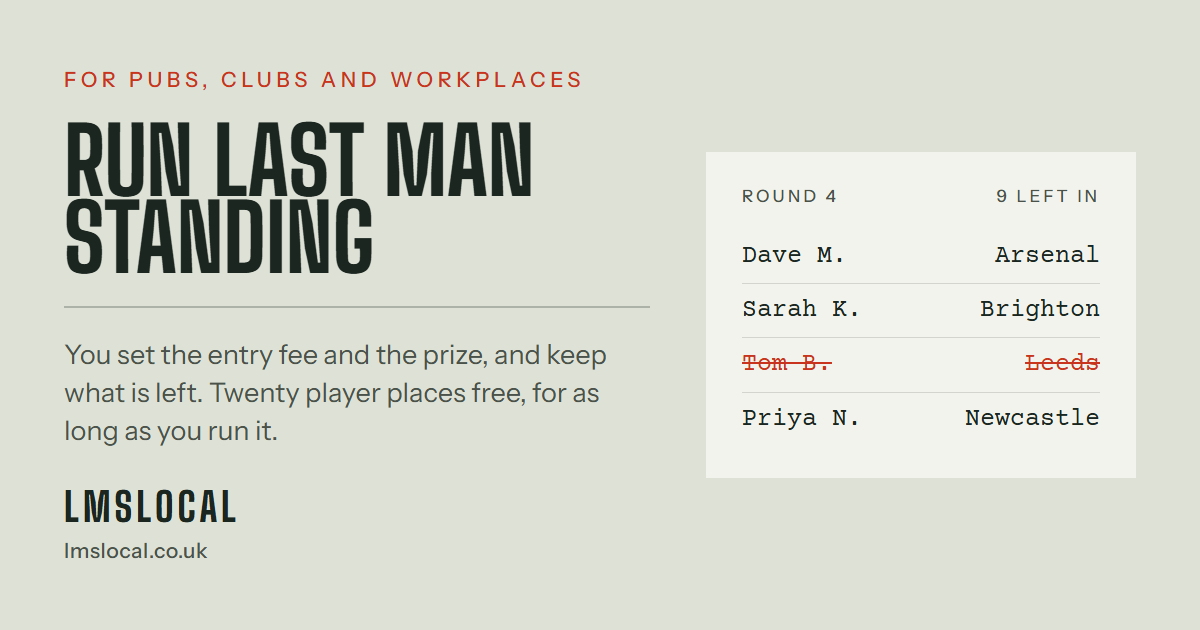
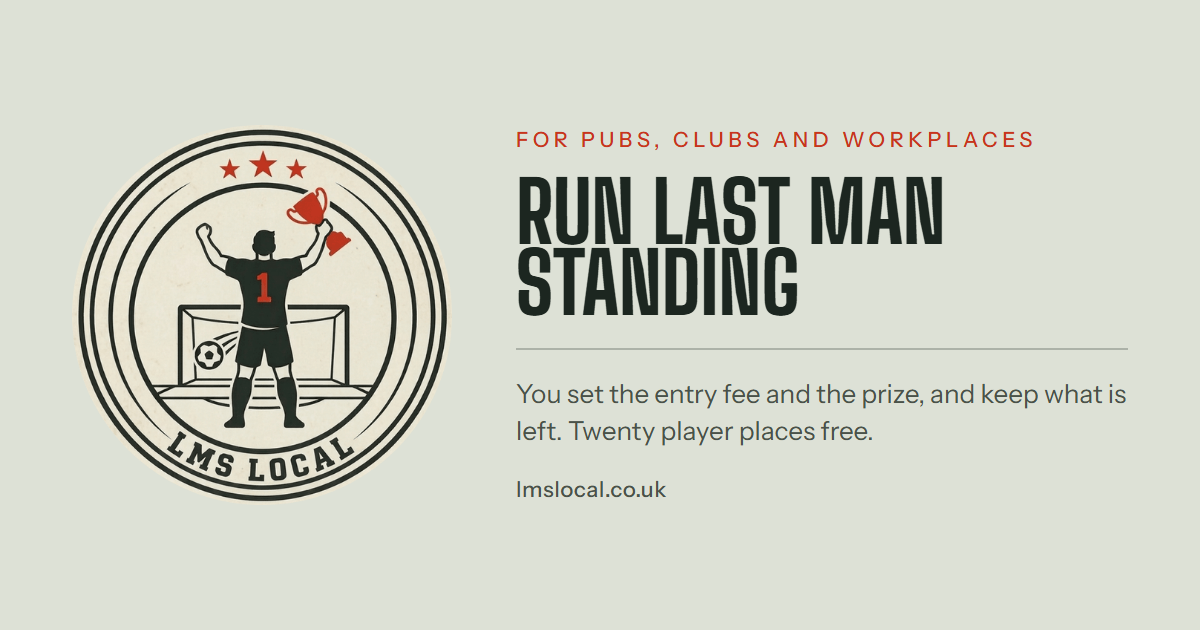
Build the link previews around the badge
The survival sheet explained the game better, but on a preview the size of a
thumbnail the badge is the only element anyone already recognises as us.

Both tiles use the app's own public/logo.png, served over a second root in
make-png.js rather than copied into the folder: assets/LMS-Local-Logo.png is the
same mark with a cream square baked in, which would sit as a pale block on the
stock ground, and two copies of a logo drift as soon as one is touched.

og-default's sentence loses "for as long as you run it" — at this measure it
wrapped to a third line carrying only "it."

diff --git a/lmslocal-marketing/social/og-join.html b/lmslocal-marketing/social/og-join.html
@@ -33,11 +33,15 @@
       file exists is that the site-wide preview was selling the platform to
       organisers on a link sent to players.
 
-      The survival sheet carries the same names, teams and round as
-      leaflet/a5-landlord.html and the story tile. It is illustrative artwork,
-      not a claim — the honesty rules bite on figures and testimonials, and there
-      are none here. Someone who meets the game twice should not have to learn it
-      twice, so if these names change they change everywhere.
+      The badge is the app's own /logo.png, served over /app-public/ by
+      make-png.js rather than copied in here — assets/LMS-Local-Logo.png is the
+      same mark with a cream square baked in, which would show as a pale block
+      against the stock ground.
+
+      An earlier version used the survival sheet instead. It explained the game
+      better and looked like nothing else we ship; the badge is what people
+      already recognise as us, which matters more on a preview the size of a
+      thumbnail.
     -->
 
     <p class="screen-only max-w-[1200px] font-body text-sm text-white">
@@ -47,67 +51,36 @@
     </p>
 
     <div class="tile bg-stock font-body text-ink">
-      <div class="flex h-full gap-[56px] p-[64px]">
-        <!-- Left: what the game is ----------------------------------------- -->
+      <div class="flex h-full items-center gap-[64px] p-[72px]">
+        <!-- The badge. Fixed size and shrink-0: at thumbnail size it is the only
+             element anyone will actually recognise, so it must not be what gives
+             way when the copy grows. -->
+        <img
+          src="/app-public/logo.png"
+          alt="LMS Local"
+          class="h-[380px] w-[380px] shrink-0"
+        />
+
         <div class="flex min-w-0 flex-1 flex-col">
           <p class="text-[21px] font-medium uppercase tracking-[0.22em] text-overprint">
             You have been invited
           </p>
 
-          <h1 class="mt-[26px] font-display text-[104px] font-extrabold uppercase leading-[0.84]">
+          <h1 class="mt-[22px] font-display text-[92px] font-extrabold uppercase leading-[0.84]">
             Last man<br />standing
           </h1>
 
           <!-- 2px rather than a hairline: at 1200px wide a 1px rule survives the
                render but not the compression every chat app puts on a preview. -->
-          <div class="mt-[34px] h-[2px] w-full shrink-0 bg-ink/25"></div>
+          <div class="mt-[30px] h-[2px] w-full shrink-0 bg-ink/25"></div>
 
-          <p class="mt-[30px] text-[27px] leading-[1.4] text-ink-fade">
+          <p class="mt-[26px] text-[27px] leading-[1.4] text-ink-fade">
             Pick one team each round. Win and you go through. Draw or lose and you are out.
           </p>
 
-          <div class="mt-auto shrink-0 pt-[28px]">
-            <p class="font-display text-[40px] font-extrabold uppercase leading-none tracking-[0.1em]">
-              lmslocal
-            </p>
-            <p class="mt-[8px] text-[21px] font-medium tracking-wide text-ink-fade">
-              lmslocal.co.uk
-            </p>
-          </div>
-        </div>
-
-        <!-- Right: the sheet it replaces ----------------------------------- -->
-        <div class="flex w-[430px] shrink-0 flex-col justify-center">
-          <div class="bg-stock-lit px-[36px] py-[32px]">
-            <div class="flex items-baseline justify-between">
-              <p class="text-[17px] font-medium uppercase tracking-[0.18em] text-ink-fade">
-                Round 4
-              </p>
-              <p class="text-[17px] font-medium uppercase tracking-[0.18em] text-ink-fade">
-                9 left in
-              </p>
-            </div>
-            <!-- font-data because these read as filled in by hand — the one
-                 thing on the tile a person would have written. -->
-            <dl class="mt-[20px] font-data text-[25px] leading-tight">
-              <div class="flex justify-between border-b border-ink/15 py-[11px]">
-                <dt>Dave M.</dt>
-                <dd>Arsenal</dd>
-              </div>
-              <div class="flex justify-between border-b border-ink/15 py-[11px]">
-                <dt>Sarah K.</dt>
-                <dd>Brighton</dd>
-              </div>
-              <div class="flex justify-between border-b border-ink/15 py-[11px] text-overprint">
-                <dt class="line-through">Tom B.</dt>
-                <dd class="line-through">Leeds</dd>
-              </div>
-              <div class="flex justify-between py-[11px]">
-                <dt>Priya N.</dt>
-                <dd>Newcastle</dd>
-              </div>
-            </dl>
-          </div>
+          <p class="mt-[26px] text-[22px] font-medium tracking-wide text-ink-fade">
+            lmslocal.co.uk
+          </p>
         </div>
       </div>
     </div>

diff --git a/lmslocal-marketing/social/og-default.html b/lmslocal-marketing/social/og-default.html
@@ -32,9 +32,14 @@
       no revenue example, no testimonial. See the honesty rules in
       docs/design-system.md.
 
-      The player-facing variant is og-join.html. They share a skeleton and the
-      survival sheet on purpose — two previews from one site should look like
-      one family — and differ only in who they are talking to.
+      The badge is the app's own /logo.png, served over /app-public/ by
+      make-png.js rather than copied in here — assets/LMS-Local-Logo.png is the
+      same mark with a cream square baked in, which would show as a pale block
+      against the stock ground.
+
+      The player-facing variant is og-join.html. They share a skeleton on
+      purpose — two previews from one site should look like one family — and
+      differ only in who they are talking to.
     -->
 
     <p class="screen-only max-w-[1200px] font-body text-sm text-white">
@@ -44,14 +49,22 @@
     </p>
 
     <div class="tile bg-stock font-body text-ink">
-      <div class="flex h-full gap-[56px] p-[64px]">
-        <!-- Left: the offer ------------------------------------------------ -->
+      <div class="flex h-full items-center gap-[64px] p-[72px]">
+        <!-- The badge. Fixed size and shrink-0: at thumbnail size it is the only
+             element anyone will actually recognise, so it must not be what gives
+             way when the copy grows. -->
+        <img
+          src="/app-public/logo.png"
+          alt="LMS Local"
+          class="h-[380px] w-[380px] shrink-0"
+        />
+
         <div class="flex min-w-0 flex-1 flex-col">
           <p class="text-[21px] font-medium uppercase tracking-[0.22em] text-overprint">
             For pubs, clubs and workplaces
           </p>
 
-          <h1 class="mt-[26px] font-display text-[92px] font-extrabold uppercase leading-[0.84]">
+          <h1 class="mt-[22px] font-display text-[84px] font-extrabold uppercase leading-[0.84]">
             Run last man<br />standing
           </h1>
 
@@ -59,53 +72,15 @@
                render but not the compression every chat app puts on a preview. -->
           <div class="mt-[30px] h-[2px] w-full shrink-0 bg-ink/25"></div>
 
-          <p class="mt-[28px] text-[27px] leading-[1.4] text-ink-fade">
-            You set the entry fee and the prize, and keep what is left. Twenty player places free,
-            for as long as you run it.
+          <p class="mt-[26px] text-[26px] leading-[1.4] text-ink-fade">
+            <!-- Shorter than the root metadata's version of this sentence, which
+                 wraps to a third line here and leaves "it." on its own. -->
+            You set the entry fee and the prize, and keep what is left. Twenty player places free.
           </p>
 
-          <div class="mt-auto shrink-0 pt-[28px]">
-            <p class="font-display text-[40px] font-extrabold uppercase leading-none tracking-[0.1em]">
-              lmslocal
-            </p>
-            <p class="mt-[8px] text-[21px] font-medium tracking-wide text-ink-fade">
-              lmslocal.co.uk
-            </p>
-          </div>
-        </div>
-
-        <!-- Right: the sheet it replaces ----------------------------------- -->
-        <div class="flex w-[430px] shrink-0 flex-col justify-center">
-          <div class="bg-stock-lit px-[36px] py-[32px]">
-            <div class="flex items-baseline justify-between">
-              <p class="text-[17px] font-medium uppercase tracking-[0.18em] text-ink-fade">
-                Round 4
-              </p>
-              <p class="text-[17px] font-medium uppercase tracking-[0.18em] text-ink-fade">
-                9 left in
-              </p>
-            </div>
-            <!-- font-data because these read as filled in by hand — the one
-                 thing on the tile a person would have written. -->
-            <dl class="mt-[20px] font-data text-[25px] leading-tight">
-              <div class="flex justify-between border-b border-ink/15 py-[11px]">
-                <dt>Dave M.</dt>
-                <dd>Arsenal</dd>
-              </div>
-              <div class="flex justify-between border-b border-ink/15 py-[11px]">
-                <dt>Sarah K.</dt>
-                <dd>Brighton</dd>
-              </div>
-              <div class="flex justify-between border-b border-ink/15 py-[11px] text-overprint">
-                <dt class="line-through">Tom B.</dt>
-                <dd class="line-through">Leeds</dd>
-              </div>
-              <div class="flex justify-between py-[11px]">
-                <dt>Priya N.</dt>
-                <dd>Newcastle</dd>
-              </div>
-            </dl>
-          </div>
+          <p class="mt-[24px] text-[22px] font-medium tracking-wide text-ink-fade">
+            lmslocal.co.uk
+          </p>
         </div>
       </div>
     </div>

diff --git a/lmslocal-marketing/make-png.js b/lmslocal-marketing/make-png.js
@@ -187,10 +187,21 @@ if (!fs.existsSync(path.dirname(dest))) {
 
 const profileDir = fs.mkdtempSync(path.join(os.tmpdir(), 'lms-chrome-'));
 
+/*
+ * Two roots. /app-public/* serves lmslocal-web/public/ so the tiles can use the
+ * app's own logo.png rather than a copy kept here — the copy in assets/ has a
+ * cream square baked in where the app's is cut out to the roundel, and two
+ * versions of a logo drift the moment one is touched.
+ */
+const APP_PUBLIC = path.resolve(ROOT, '../lmslocal-web/public');
+const APP_PREFIX = '/app-public/';
+
 const server = http.createServer((req, res) => {
   const rel = decodeURIComponent(req.url.split('?')[0]);
-  const file = path.join(ROOT, rel);
-  if (!file.startsWith(ROOT)) return res.writeHead(403).end();
+  const fromApp = rel.startsWith(APP_PREFIX);
+  const base = fromApp ? APP_PUBLIC : ROOT;
+  const file = path.join(base, fromApp ? rel.slice(APP_PREFIX.length) : rel);
+  if (!file.startsWith(base)) return res.writeHead(403).end();
   fs.readFile(file, (err, buf) => {
     if (err) return res.writeHead(404).end('not found');
     res.writeHead(200, { 'Content-Type': TYPES[path.extname(file)] || 'application/octet-stream' });
